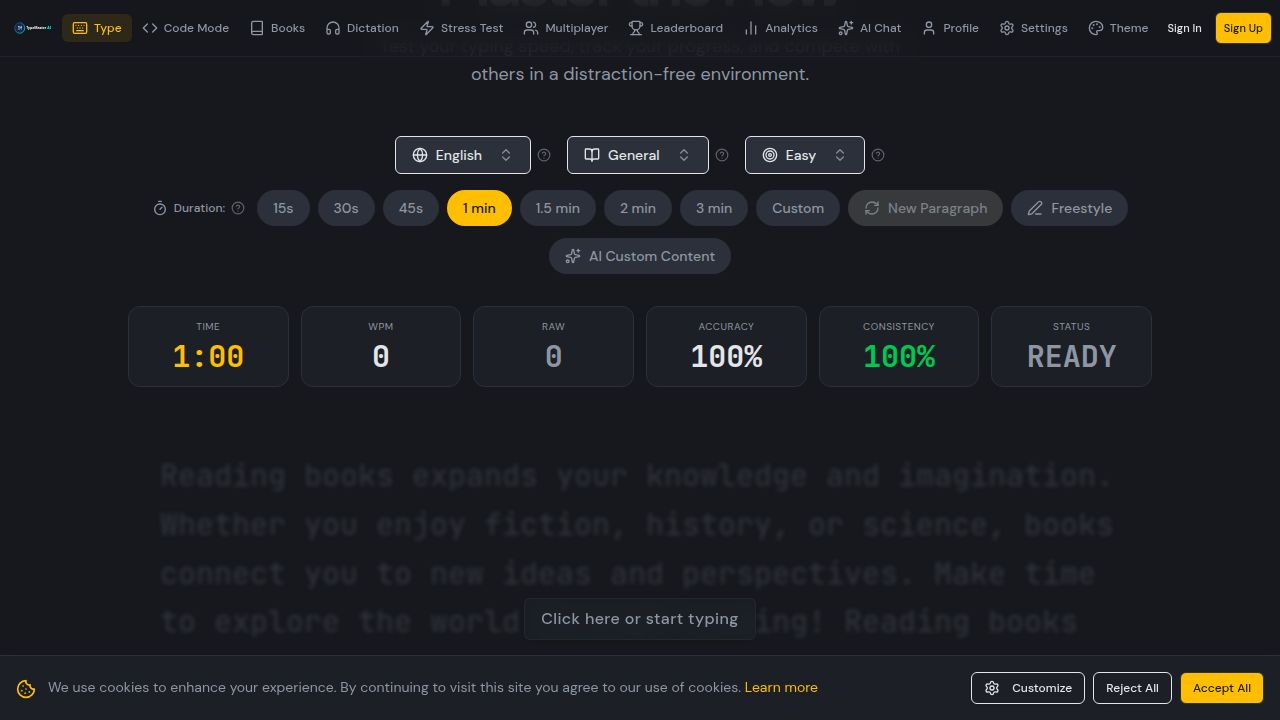
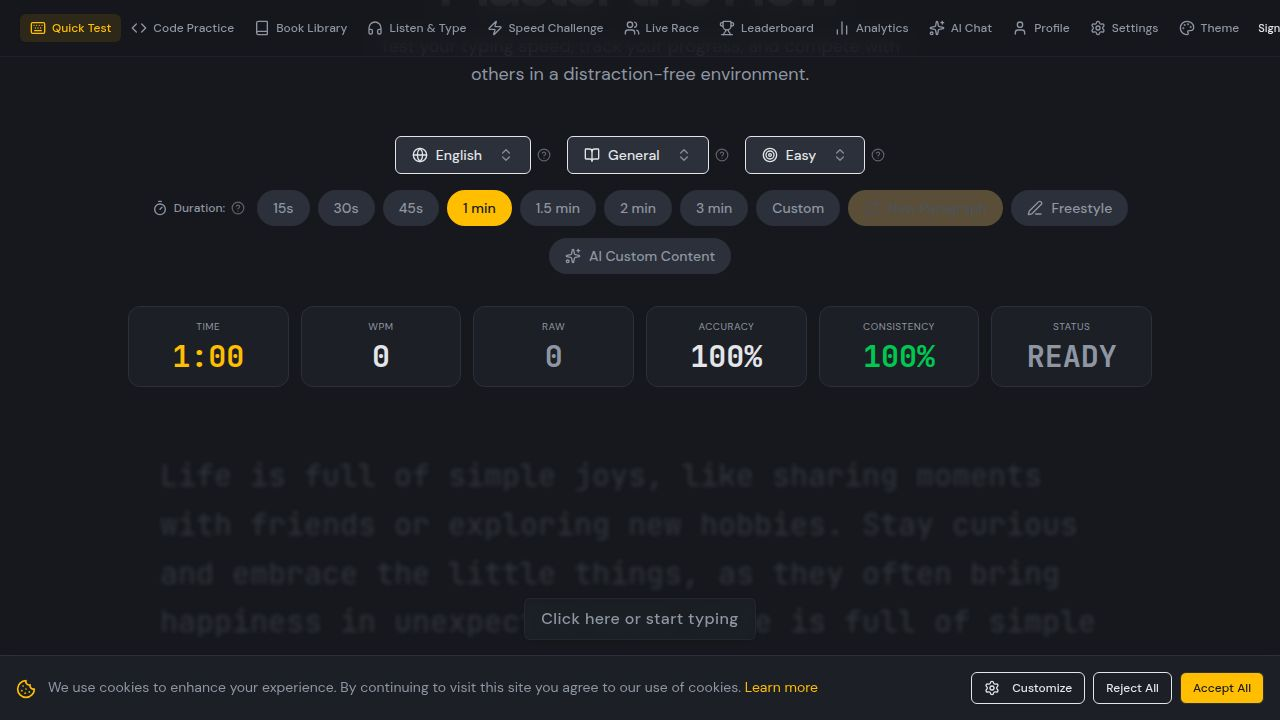
Update navigation menu labels for clarity and user experience
Refactor navigation items in layout.tsx to use more descriptive and user-friendly labels, such as changing "Type" to "Quick Test" and "Dictation" to "Listen & Type".

Replit-Commit-Author: Agent
Replit-Commit-Session-Id: c32063cf-6639-428f-88e8-5a9840ea2c5c
Replit-Commit-Checkpoint-Type: full_checkpoint
Replit-Commit-Event-Id: 94bb71ec-af5a-49a1-a745-59e3934f1e16
Replit-Commit-Screenshot-Url: https://storage.googleapis.com/screenshot-production-us-central1/0add726b-f077-4356-bf30-6c485b8e1ae7/c32063cf-6639-428f-88e8-5a9840ea2c5c/Nn2q3TV

Changed region(s): [[0.0, 0.0, 1.0, 0.0611], [0.6562, 0.2444, 0.7812, 0.3361]]

diff --git a/client/src/components/layout.tsx b/client/src/components/layout.tsx
@@ -53,12 +53,12 @@ export default function Layout({ children }: { children: React.ReactNode }) {
   const xpProgress = (xpInCurrentLevel / 100) * 100;
 
   const primaryNavItems = [
-    { href: "/", icon: Keyboard, label: "Type", description: "Practice typing with various texts and languages" },
-    { href: "/code-mode", icon: Code, label: "Code Mode", description: "Practice typing real programming code" },
-    { href: "/books", icon: Book, label: "Books", description: "Type passages from famous books" },
-    { href: "/dictation-mode", icon: Headphones, label: "Dictation", description: "Listen and type what you hear" },
-    { href: "/stress-test", icon: Zap, label: "Stress Test", description: "Test your typing under pressure" },
-    { href: "/multiplayer", icon: Users, label: "Multiplayer", description: "Race against other players in real-time" },
+    { href: "/", icon: Keyboard, label: "Quick Test", description: "Practice typing with various texts and languages" },
+    { href: "/code-mode", icon: Code, label: "Code Practice", description: "Practice typing real programming code" },
+    { href: "/books", icon: Book, label: "Book Library", description: "Type passages from famous books" },
+    { href: "/dictation-mode", icon: Headphones, label: "Listen & Type", description: "Listen and type what you hear" },
+    { href: "/stress-test", icon: Zap, label: "Speed Challenge", description: "Test your typing under pressure" },
+    { href: "/multiplayer", icon: Users, label: "Live Race", description: "Race against other players in real-time" },
   ];
 
   const secondaryNavItems = [
